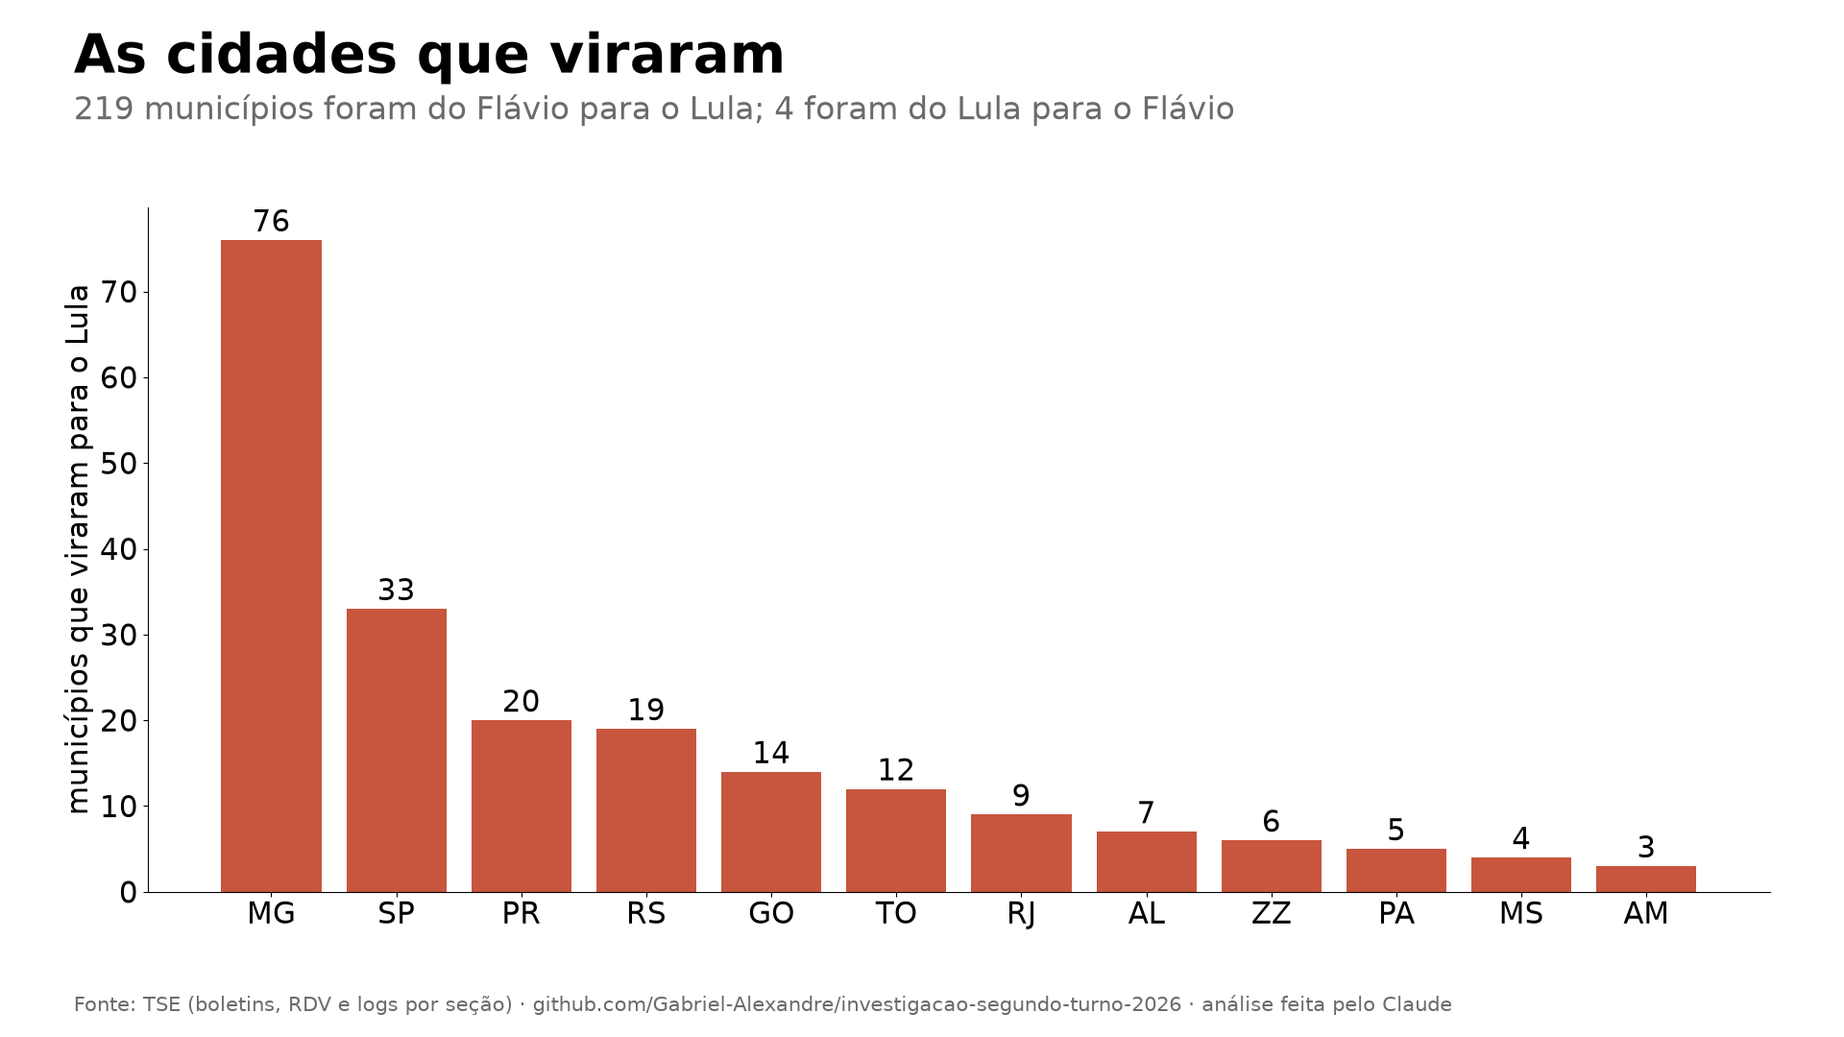
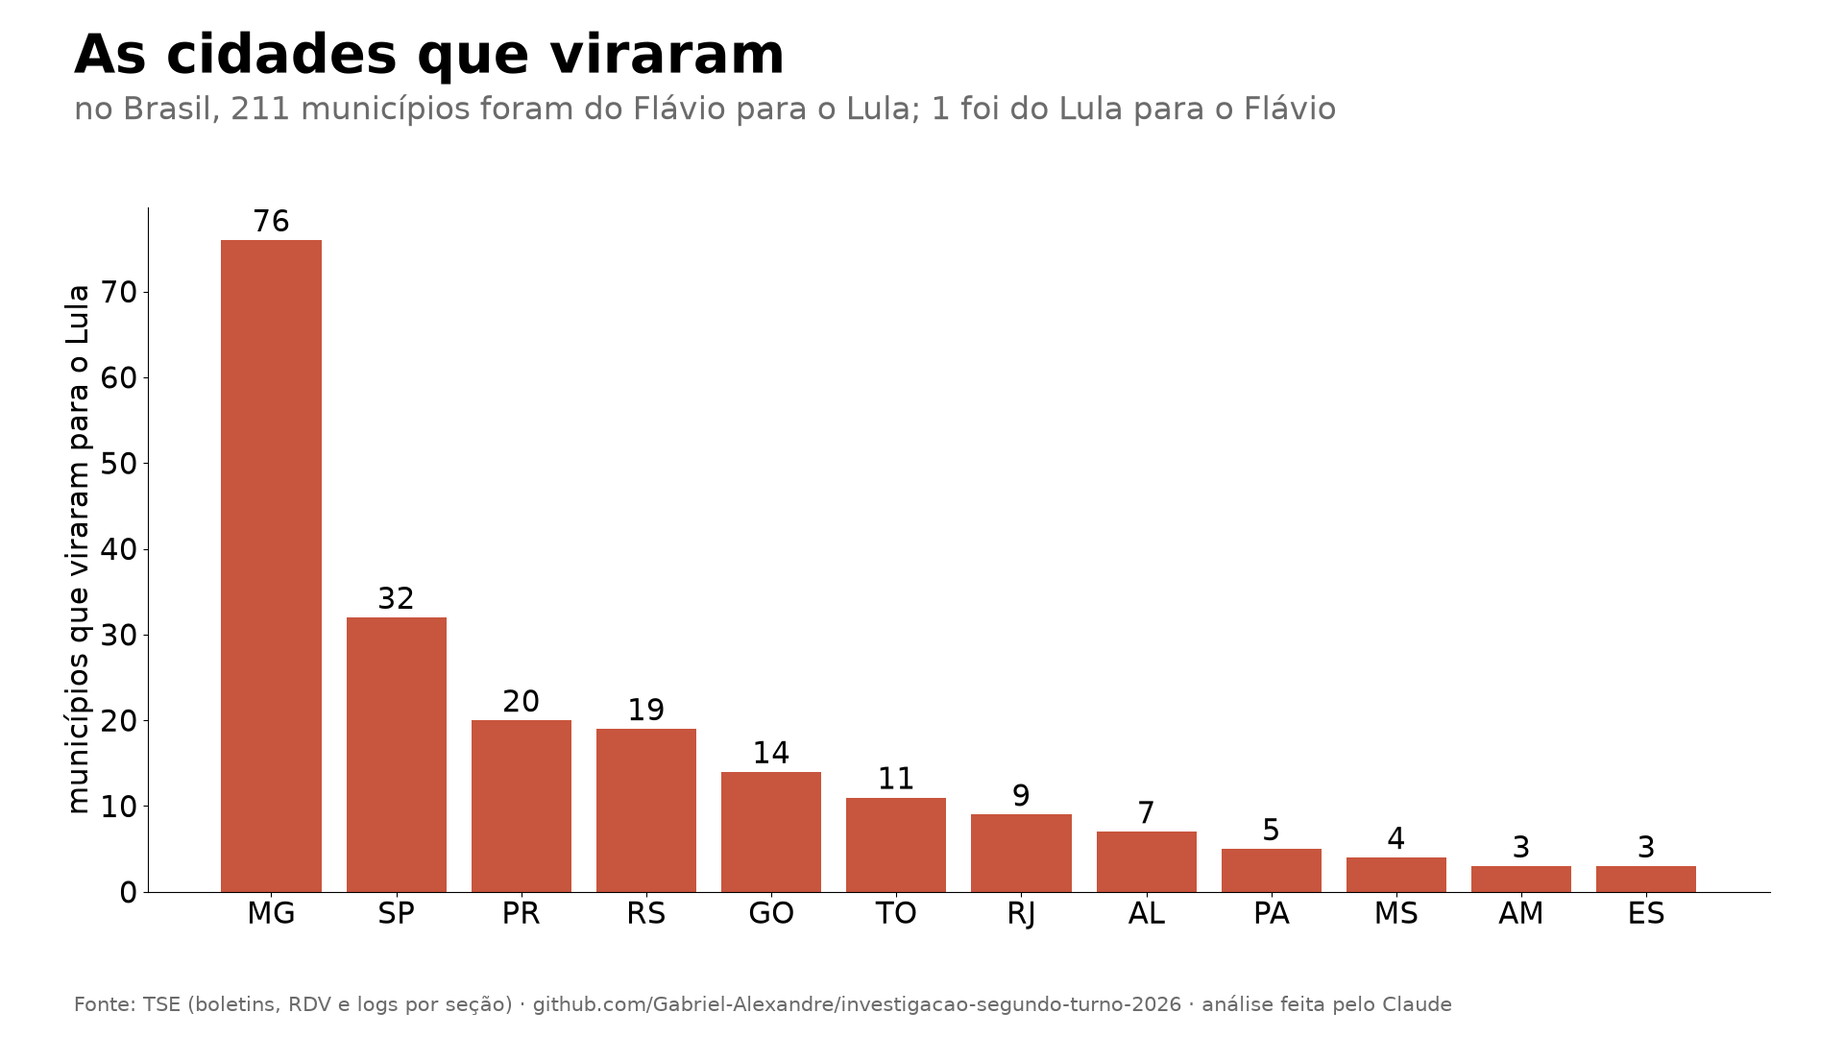
Rodada 5: as cidades que viraram contra 2002 a 2022 (212 em 2026, menos que todo ano menos 2018; fora do padrão, o PT ganhar mais votos que o adversário em 94% dos municípios e 61% do ganho no Sul, batendo com a rodada 7 do projeto do vídeo 19); correção do D4: 211 e 1 no Brasil (os 219 e 4 somavam 

diff --git a/ferramentas/rodada-5-municipios.py b/ferramentas/rodada-5-municipios.py
@@ -1,0 +1,89 @@
+"""Rodada 5: as cidades que viraram são normais? (pedido do autor para o roteiro: "comparar com outras eleições, se é normal
+ganhar ou aumentar em tantos municípios, e se é normal o Lula ganhar mais que o Flávio no Sul")
+
+  M1  municípios que viraram entre os turnos (o líder entre os 2 finalistas no 1º turno perde o município no 2º), nos 2 sentidos
+  M2  em quantos municípios o PT ganhou mais votos que o adversário entre os turnos
+  M3  a parte do PT no que os 2 ganharam, por região
+
+Mesmas fontes da rodada 4 (votação por candidato e município do TSE, 2002 a 2022; boletins por seção de 2026 deste projeto).
+O exterior (ZZ) fica fora. M2 e M3 refazem por outro caminho a rodada 7 do projeto do vídeo 19 (quem_ganhou_mais_por_ano.csv).
+
+Também corrige o D4 da rodada 3 sem refazer a rodada inteira: o empate exato no 1º turno (2 municípios, Trabiju e Crixás do
+Tocantins) era contado como do Flávio, e as cidades do exterior entravam na conta das que viraram. Refaz o vencedor em
+resultados/d4_municipios.csv e o bloco D4 de resultados/rodada3.json com a mesma função da rodada 3 (d4_resumo).
+
+Saída: resultados/rodada5_municipios_por_ano.csv, resultados/d4_municipios.csv e resultados/rodada3.json (bloco D4)
+"""
+from __future__ import annotations
+
+import csv, importlib.util
+from pathlib import Path
+
+R = Path(__file__).resolve().parents[1]
+spec = importlib.util.spec_from_file_location("r4", R / "ferramentas/rodada-4-normalidade.py")
+r4 = importlib.util.module_from_spec(spec); spec.loader.exec_module(r4)
+import pandas as pd
+
+REGIAO = {**{u: "Norte" for u in "AC AM AP PA RO RR TO".split()}, **{u: "Nordeste" for u in "AL BA CE MA PB PE PI RN SE".split()},
+          **{u: "Centro-Oeste" for u in "DF GO MS MT".split()}, **{u: "Sudeste" for u in "ES MG RJ SP".split()},
+          **{u: "Sul" for u in "PR RS SC".split()}}
+ADV = {2002: 45, 2006: 45, 2010: 45, 2014: 45, 2018: 17, 2022: 22}
+
+
+def tabela(a):
+    if a < 2026:
+        v = r4.votos_municipio(a)
+        v = v[v.SG_UF != "ZZ"]
+        p = v[v.NR_CANDIDATO.astype(int).isin([13, ADV[a]])].copy()
+        p["quem"] = (p.NR_CANDIDATO.astype(int) == 13).map({True: "pt", False: "ad"})
+        q = p.pivot_table(index=["SG_UF", "CD_MUNICIPIO"], columns=["NR_TURNO", "quem"], values="v", aggfunc="sum").dropna()
+        d = pd.DataFrame({"uf": q.index.get_level_values(0), "pt1": q[("1", "pt")].values, "ad1": q[("1", "ad")].values,
+                          "pt2": q[("2", "pt")].values, "ad2": q[("2", "ad")].values})
+    else:
+        q = r4.votos_2026()
+        q = q[q.uf != "zz"]
+        d = pd.DataFrame({"uf": q.uf.str.upper().values, "pt1": q.lula.values, "ad1": q.flavio.values,
+                          "pt2": q.bu_lula.values, "ad2": q.bu_flavio.values})
+    return d
+
+
+def corrigir_d4():
+    import json
+    import numpy as np
+    sp = importlib.util.spec_from_file_location("r3", R / "ferramentas/rodada-3.py")
+    r3 = importlib.util.module_from_spec(sp); sp.loader.exec_module(r3)
+    mm = pd.read_csv(R / "resultados/d4_municipios.csv", dtype={"municipio": str})
+    mm["venc1"] = np.select([mm.lula1 > mm.flavio1, mm.lula1 < mm.flavio1], ["lula", "flavio"], "empate")
+    mm["venc2"] = np.select([mm.lula2 > mm.flavio2, mm.lula2 < mm.flavio2], ["lula", "flavio"], "empate")
+    mm.to_csv(R / "resultados/d4_municipios.csv", index=False)
+    j = json.loads((R / "resultados/rodada3.json").read_text(encoding="utf-8"))
+    j["D4_cidades_que_viraram"] = r3.d4_resumo(mm)
+    (R / "resultados/rodada3.json").write_text(json.dumps(j, indent=1, ensure_ascii=False, default=str), encoding="utf-8")
+    print(json.dumps({k: v for k, v in j["D4_cidades_que_viraram"].items() if k != "maiores_em_eleitores"}, ensure_ascii=False))
+
+
+def main():
+    corrigir_d4()
+    linhas = []
+    for a in [2002, 2006, 2010, 2014, 2018, 2022, 2026]:
+        d = tabela(a)
+        n = len(d)
+        pt_virou = int(((d.pt1 < d.ad1) & (d.pt2 > d.ad2)).sum())
+        ad_virou = int(((d.pt1 > d.ad1) & (d.pt2 < d.ad2)).sum())
+        gpt, gad = d.pt2 - d.pt1, d.ad2 - d.ad1
+        mais = int((gpt > gad).sum())
+        lin = {"ano": a, "municipios": n, "viraram_para_o_pt": pt_virou, "viraram_para_o_adversario": ad_virou,
+               "viraram_total": pt_virou + ad_virou, "viraram_pct": round((pt_virou + ad_virou) / n * 100, 2),
+               "pt_ganhou_mais_votos_em": mais, "pt_ganhou_mais_votos_pct": round(mais / n * 100, 1)}
+        d["reg"] = d.uf.map(REGIAO)
+        for reg, g in d.groupby("reg"):
+            gp, ga = (g.pt2 - g.pt1).sum(), (g.ad2 - g.ad1).sum()
+            lin[f"parte_do_pt_{reg}"] = round(gp / (gp + ga) * 100, 1)
+        linhas.append(lin)
+        print(lin, flush=True)
+    with open(R / "resultados/rodada5_municipios_por_ano.csv", "w", newline="", encoding="utf-8") as f:
+        w = csv.DictWriter(f, fieldnames=list(linhas[0])); w.writeheader(); w.writerows(linhas)
+
+
+if __name__ == "__main__":
+    main()

diff --git a/ferramentas/rodada-3.py b/ferramentas/rodada-3.py
@@ -269,8 +269,9 @@ def main():
     mm = d.groupby(["uf", "municipio"]).agg(lula1=("lula1", "sum"), flavio1=("flavio1", "sum"), val1=("val1", "sum"),
                                              lula2=("lula2", "sum"), flavio2=("flavio2", "sum"), val2=("val2", "sum"),
                                              aptos=("aptos2", "sum"), abst1=("abst1", "sum"), abst2=("abst2", "sum"), outros1=("outros1", "sum")).reset_index()
-    mm["venc1"] = np.where(mm.lula1 > mm.flavio1, "lula", "flavio")
-    mm["venc2"] = np.where(mm.lula2 > mm.flavio2, "lula", "flavio")
+    # empate exato fica como empate (rodada 5: 2 municípios empataram no 1º turno e eram contados como do Flávio)
+    mm["venc1"] = np.select([mm.lula1 > mm.flavio1, mm.lula1 < mm.flavio1], ["lula", "flavio"], "empate")
+    mm["venc2"] = np.select([mm.lula2 > mm.flavio2, mm.lula2 < mm.flavio2], ["lula", "flavio"], "empate")
     mm["lula_pct_1t"] = mm.lula1 / mm.val1 * 100
     mm["lula_pct_2t"] = mm.lula2 / mm.val2 * 100
     mm["frente_lula_1t_pontos"] = (mm.lula1 - mm.flavio1) / (mm.lula1 + mm.flavio1) * 100
@@ -283,18 +284,29 @@ def main():
     except FileNotFoundError:
         pass
     mm.to_csv(R / "resultados/d4_municipios.csv", index=False)
-    f2l = mm[(mm.venc1 == "flavio") & (mm.venc2 == "lula")]
-    l2f = mm[(mm.venc1 == "lula") & (mm.venc2 == "flavio")]
-    out["D4_cidades_que_viraram"] = {"municipios": int(len(mm)), "do_flavio_para_o_lula": int(len(f2l)), "do_lula_para_o_flavio": int(len(l2f)),
-                                     "por_regiao_flavio_para_lula": f2l.regiao.value_counts().to_dict(),
-                                     "por_uf_flavio_para_lula": f2l.uf.value_counts().head(10).to_dict(),
-                                     "aptos_nos_que_viraram_para_o_lula": int(f2l.aptos.sum()),
-                                     "maiores_em_eleitores": f2l.sort_values("aptos", ascending=False).head(15)[[c for c in ["uf", "municipio", "nome", "aptos", "frente_lula_1t_pontos", "frente_lula_2t_pontos"] if c in f2l]].round(2).to_dict("records"),
-                                     "frente_do_lula_aumentou_em_pct_dos_municipios": round(float((mm.virada_pontos > 0).mean() * 100), 2),
-                                     "virada_media_pontos": round(float(mm.virada_pontos.mean()), 2)}
+    out["D4_cidades_que_viraram"] = d4_resumo(mm)
     (R / "resultados/rodada3.json").write_text(json.dumps(out, indent=1, ensure_ascii=False, default=str), encoding="utf-8")
     d[K + ["regiao", "lp1", "lp2", "res", "excL", "excF", "dc", "dabst"]].to_parquet(R / "dados/derivados/r3_secoes.parquet", index=False)
     print(json.dumps(out, indent=1, ensure_ascii=False, default=str))
+
+
+def d4_resumo(todos):
+    """As cidades que viraram, só no Brasil (o exterior à parte, e o empate exato no 1º turno à parte)."""
+    mm = todos[todos.uf != "zz"]
+    ex = todos[todos.uf == "zz"]
+    f2l = mm[(mm.venc1 == "flavio") & (mm.venc2 == "lula")]
+    l2f = mm[(mm.venc1 == "lula") & (mm.venc2 == "flavio")]
+    return {"municipios": int(len(mm)), "do_flavio_para_o_lula": int(len(f2l)), "do_lula_para_o_flavio": int(len(l2f)),
+            "empatados_no_1t_e_do_lula_no_2t": int(((mm.venc1 == "empate") & (mm.venc2 == "lula")).sum()),
+            "empatados_no_1t_e_do_flavio_no_2t": int(((mm.venc1 == "empate") & (mm.venc2 == "flavio")).sum()),
+            "exterior_cidades": int(len(ex)), "exterior_do_flavio_para_o_lula": int(((ex.venc1 == "flavio") & (ex.venc2 == "lula")).sum()),
+            "exterior_do_lula_para_o_flavio": int(((ex.venc1 == "lula") & (ex.venc2 == "flavio")).sum()),
+            "por_regiao_flavio_para_lula": f2l.regiao.value_counts().to_dict(),
+            "por_uf_flavio_para_lula": f2l.uf.value_counts().head(10).to_dict(),
+            "aptos_nos_que_viraram_para_o_lula": int(f2l.aptos.sum()),
+            "maiores_em_eleitores": f2l.sort_values("aptos", ascending=False).head(15)[[c for c in ["uf", "municipio", "nome", "aptos", "frente_lula_1t_pontos", "frente_lula_2t_pontos"] if c in f2l]].round(2).to_dict("records"),
+            "frente_do_lula_aumentou_em_pct_dos_municipios": round(float((mm.virada_pontos > 0).mean() * 100), 2),
+            "virada_media_pontos": round(float(mm.virada_pontos.mean()), 2)}
 
 
 if __name__ == "__main__":

diff --git a/ferramentas/gerar-relatorio.py b/ferramentas/gerar-relatorio.py
@@ -2,6 +2,7 @@
 from __future__ import annotations
 
 import json
+import pandas as pd
 from pathlib import Path
 
 R = Path(__file__).resolve().parents[1]
@@ -40,6 +41,8 @@ def main():
     a1, a2, a3, a8, a9, a10, a11 = (r3[k] for k in ("A1_votos_sem_origem", "A2_votos_que_somem", "A3_enchimento", "A8_pausa_e_cauda", "A9_urna_trocada", "A10_unanimidades", "A11_residuos_por_municipio"))
     a4, a5, a6, a7 = (r2[k] for k in ("A4_rdv_contra_boletim", "A5_log_contra_boletim", "A6_votos_depois_das_17h", "A7_rajadas_e_liberacao_sem_digital"))
     d4 = r3["D4_cidades_que_viraram"]
+    _v = pd.read_csv(R / 'resultados/rodada5_municipios_por_ano.csv')
+    viradas_historico = '; '.join(f"{int(r.ano)}: {int(r.viraram_total)} viraram ({int(r.viraram_para_o_pt)} para o PT, {int(r.viraram_para_o_adversario)} para o adversário), o PT ganhou mais votos que o adversário em {br(r.pt_ganhou_mais_votos_pct, 1)}% e ficou com {br(r['parte_do_pt_Sul'], 1)}% do que os 2 ganharam no Sul" for _, r in _v.iterrows())
     x1, x3, x4 = ra["acusacao"]["X1_reserva_so_com_outros_candidatos"], ra["acusacao"]["X3_unanimidades_como_se_fossem_falsas"], ra["acusacao"]["X4_o_1pct_de_secoes_mais_acima_do_previsto"]
 
     def sinal(x):
@@ -88,7 +91,7 @@ Estimativa seção a seção, por UF, com intervalo de 90% (`resultados/d2_trans
 
 Validação em 2022 (o mesmo modelo, comparado com o Datafolha de 5 a 7/10/2022): eleitores do Ciro, modelo {pct(d2['validacao_2022']['ciro_modelo']['para_lula_pct'])} Lula e {pct(d2['validacao_2022']['ciro_modelo']['para_o_outro_pct'])} Bolsonaro, Datafolha 31% e 42%; eleitores da Tebet, modelo {pct(d2['validacao_2022']['tebet_modelo']['para_lula_pct'])} e {pct(d2['validacao_2022']['tebet_modelo']['para_o_outro_pct'])}, Datafolha 31% e 29%. O modelo acertou o lado dos eleitores do Ciro e errou o da Tebet: os números de origem acima são a melhor estimativa disponível, não uma medida exata.
 
-**As cidades que viraram:** {br(d4['do_flavio_para_o_lula'])} municípios foram do Flávio no 1º turno para o Lula no 2º; {br(d4['do_lula_para_o_flavio'])} fizeram o contrário. A frente do Lula aumentou em {pct(d4['frente_do_lula_aumentou_em_pct_dos_municipios'])} dos {br(d4['municipios'])} municípios (`resultados/d4_municipios.csv`).
+**As cidades que viraram:** no Brasil, {br(d4['do_flavio_para_o_lula'])} municípios foram do Flávio no 1º turno para o Lula no 2º e {br(d4['do_lula_para_o_flavio'])} fez o contrário; outros {br(d4['empatados_no_1t_e_do_lula_no_2t'])} empataram no 1º turno e foram do Lula no 2º. No exterior, {br(d4['exterior_do_flavio_para_o_lula'])} cidades foram do Flávio para o Lula e {br(d4['exterior_do_lula_para_o_flavio'])} do Lula para o Flávio. A frente do Lula aumentou em {pct(d4['frente_do_lula_aumentou_em_pct_dos_municipios'])} dos {br(d4['municipios'])} municípios (`resultados/d4_municipios.csv`). Contra 2002 a 2022 (rodada 5, `resultados/rodada5_municipios_por_ano.csv`): {viradas_historico}.
 
 **A noite:** refeita pela hora de recebimento de cada boletim, acompanha as versões oficiais gravadas ao vivo com diferença média de {br(d5['diferenca_media_absoluta_pontos'], 2)} ponto. As trocas de liderança seguem a ordem de chegada das regiões (`resultados/d5_reconstruida.json`).
 

diff --git a/ferramentas/graficos.py b/ferramentas/graficos.py
@@ -169,10 +169,11 @@ def g07_polymarket():
 
 def g08_cidades():
     m = pd.read_csv(R / "resultados/d4_municipios.csv", dtype={"municipio": str})
+    m = m[m.uf != "zz"]
     f2l = m[(m.venc1 == "flavio") & (m.venc2 == "lula")]
     l2f = m[(m.venc1 == "lula") & (m.venc2 == "flavio")]
     cont = f2l.uf.str.upper().value_counts().head(12)
-    f = fig("As cidades que viraram", f"{len(f2l)} municípios foram do Flávio para o Lula; {len(l2f)} foram do Lula para o Flávio")
+    f = fig("As cidades que viraram", f"no Brasil, {len(f2l)} municípios foram do Flávio para o Lula; {len(l2f)} foi do Lula para o Flávio")
     ax = f.add_axes([0.08, 0.14, 0.88, 0.66])
     ax.bar(cont.index, cont.values, color=L)
     for i, v in enumerate(cont.values):
@@ -229,8 +230,22 @@ def g11_abstencao():
     salvar(f, "g11_abstencao_entre_turnos.png")
 
 
+def g12_viradas_por_ano():
+    d = pd.read_csv(R / "resultados/rodada5_municipios_por_ano.csv")
+    f = fig("Cidades que viraram entre os turnos", "municípios em que o líder do 1º turno entre os 2 finalistas perdeu o 2º turno")
+    ax = f.add_axes([0.08, 0.14, 0.88, 0.66])
+    x = d.ano.astype(str)
+    ax.bar(x, d.viraram_para_o_pt, color=L, label="viraram para o PT")
+    ax.bar(x, d.viraram_para_o_adversario, bottom=d.viraram_para_o_pt, color=B, label="viraram para o adversário")
+    for i, v in enumerate(d.viraram_total):
+        ax.text(i, v + 15, str(v), ha="center", fontsize=24, weight="bold")
+    ax.set_ylabel("municípios")
+    ax.legend(frameon=False, fontsize=20)
+    salvar(f, "g12_cidades_que_viraram_por_ano.png")
+
+
 def main():
-    for g in (g01_conta, g02_origem, g03_curva, g04_testes, g05_pesquisas, g06_probabilidade, g07_polymarket, g08_cidades, g09_digital, g10_votos_livres, g11_abstencao):
+    for g in (g01_conta, g02_origem, g03_curva, g04_testes, g05_pesquisas, g06_probabilidade, g07_polymarket, g08_cidades, g09_digital, g10_votos_livres, g11_abstencao, g12_viradas_por_ano):
         try:
             g()
             print("ok", g.__name__)

diff --git a/docs/RODADAS.md b/docs/RODADAS.md
@@ -68,7 +68,7 @@ Tudo o que foi pedido, em [`RELATORIO.md`](../RELATORIO.md) (gerado por script) 
 - **1º turno por seção:** 499.206 seções; SP, TO e exterior pelo BU na Web do TSE depois de o servidor de resultados responder 429 (emenda 1), conferido contra 73.000 seções de SP já baixadas: iguais em todas.
 - **Régua de 2022:** os dois turnos de 2022 por seção, iguais ao total do TSE nas duas bases.
 - **Acusação A1 a A11 completos**, com o veredito de cada um na régua de cinco níveis e o teto do pior caso.
-- **Defesa D1 a D6 completos:** a conta, a transferência de votos com validação em 2022, a abstenção, as 219 cidades que viraram (e as 4 do outro lado), a noite refeita pelos boletins e as pesquisas da última semana.
+- **Defesa D1 a D6 completos:** a conta, a transferência de votos com validação em 2022, a abstenção, as cidades que viraram (219 e 4 na 1ª conta; 211 e 1 no Brasil depois da correção da rodada 5), a noite refeita pelos boletins e as pesquisas da última semana.
 - **Probabilidade P1 a P7 completa**, com 180 segundos turnos de 41 países (P6) e as 19 pesquisas da última semana (P3).
 - **Outros países:** [`OUTROS_PAISES.md`](OUTROS_PAISES.md).
 - **Validação independente:** todas as checagens passaram. **Revisão adversarial:** [`REVISAO_ADVERSARIAL.md`](REVISAO_ADVERSARIAL.md). **Leitura da IA:** [`LEITURA_DA_IA.md`](LEITURA_DA_IA.md). **Gráficos:** `resultados/figuras/video/` (9).
@@ -90,3 +90,21 @@ Pedido do autor depois de ler o projeto do vídeo 19: *"é normal [...] que a ma
 Leitura: o PT ganhar votos em quase todos os municípios e a virada andar para o mesmo lado em quase todos já aconteceu (2002, 2006, 2018, 2022). O eleitor dos eliminados contrariar o apoio do candidato também (2022, ao contrário: 88% apoiaram o PT e o PT levou 30%). **Sem precedente:** a abstenção cair 1,86 ponto entre os turnos e o comparecimento subir em 80% dos municípios; e o PT levar a maior parte dos votos livres quando a maioria dos eliminados apoiou o adversário.
 
 **Sensibilidade da transferência** (`resultados/d2_sensibilidade.json`): o mesmo modelo dá 3,9 milhões dos eleitores dos outros candidatos para o Lula por seção e 4,8 milhões por município; o projeto do vídeo 19, com outro método por município, dá 6,0 milhões. Os três concordam que o Lula levou mais desses eleitores do que o Flávio e que a troca direta do Flávio para o Lula foi quase nula.
+
+## Rodada 5 · 26/10/2026 (as cidades que viraram, comparadas com 2002 a 2022)
+
+Pedido do autor para o roteiro: comparar com outras eleições *"se é normal ganhar ou aumentar em tantos municípios"* e *"se é normal o Lula ganhar mais que o Flávio no Sul"* (`ferramentas/rodada-5-municipios.py`, `resultados/rodada5_municipios_por_ano.csv`, gráfico `g12`). Exterior fora; município é o do TSE de cada ano.
+
+| Ano | Municípios que viraram (para o PT / para o adversário) | PT ganhou mais votos que o adversário em | Parte do PT no que os 2 ganharam, no Sul |
+|---|---|---|---|
+| 2002 | 793 (110 / 683) | 31,2% | 41,5% |
+| 2006 | 913 (912 / 1) | 98,8% | 121,4% (o adversário perdeu votos) |
+| 2010 | 325 (30 / 295) | 30,4% | 25,1% |
+| 2014 | 348 (71 / 277) | 26,5% | 30,2% |
+| 2018 | 146 (121 / 25) | 69,9% | 53,7% |
+| 2022 | 251 (0 / 251) | 12,8% | 18,0% |
+| **2026** | **212 (211 / 1)** | **93,8%** | **60,6%** |
+
+**Leitura:** o número de cidades que viraram em 2026 é dos menores da série (só 2018 teve menos), e virar quase tudo para um lado só também aconteceu em 2006 e em 2022. O que sai do padrão é o PT ganhar mais votos que o adversário em 94% dos municípios e ficar com 61% do ganho no Sul: fora 2006, o maior tinha sido 70% dos municípios e 54% no Sul, em 2018. É o mesmo eleitor livre da rodada 4, visto no mapa. As duas últimas colunas refazem por outro caminho a rodada 7 do projeto do vídeo 19 (`quem_ganhou_mais_por_ano.csv`) e batem casa por casa (por exemplo, 2002: 31,2% e 41,5% aqui, 31,19% e 41,55% lá).
+
+**Correção do D4 (rodada 3):** as *"219 cidades que viraram (e as 4 do outro lado)"* somavam as cidades do exterior (6 e 3) e contavam como do Flávio 2 municípios que empataram no 1º turno (Trabiju, SP, 574 a 574; Crixás do Tocantins, TO, 679 a 679). No Brasil: **211 do Flávio para o Lula, 1 do Lula para o Flávio**, e 2 empatados que foram do Lula. O vencedor com empate e o exterior à parte entraram em `ferramentas/rodada-3.py` (`d4_resumo`), e `resultados/d4_municipios.csv`, `rodada3.json`, o relatório e o `g08` foram refeitos sem refazer a rodada inteira (`corrigir_d4` na rodada 5).

diff --git a/RELATORIO.md b/RELATORIO.md
@@ -31,7 +31,7 @@ Estimativa seção a seção, por UF, com intervalo de 90% (`resultados/d2_trans
 
 Validação em 2022 (o mesmo modelo, comparado com o Datafolha de 5 a 7/10/2022): eleitores do Ciro, modelo 40,3% Lula e 42,4% Bolsonaro, Datafolha 31% e 42%; eleitores da Tebet, modelo 37,8% e 44,2%, Datafolha 31% e 29%. O modelo acertou o lado dos eleitores do Ciro e errou o da Tebet: os números de origem acima são a melhor estimativa disponível, não uma medida exata.
 
-**As cidades que viraram:** 219 municípios foram do Flávio no 1º turno para o Lula no 2º; 4 fizeram o contrário. A frente do Lula aumentou em 96,5% dos 5.688 municípios (`resultados/d4_municipios.csv`).
+**As cidades que viraram:** no Brasil, 211 municípios foram do Flávio no 1º turno para o Lula no 2º e 1 fez o contrário; outros 2 empataram no 1º turno e foram do Lula no 2º. No exterior, 6 cidades foram do Flávio para o Lula e 3 do Lula para o Flávio. A frente do Lula aumentou em 97,1% dos 5.571 municípios (`resultados/d4_municipios.csv`). Contra 2002 a 2022 (rodada 5, `resultados/rodada5_municipios_por_ano.csv`): 2002: 793 viraram (110 para o PT, 683 para o adversário), o PT ganhou mais votos que o adversário em 31,2% e ficou com 41,5% do que os 2 ganharam no Sul; 2006: 913 viraram (912 para o PT, 1 para o adversário), o PT ganhou mais votos que o adversário em 98,8% e ficou com 121,4% do que os 2 ganharam no Sul; 2010: 325 viraram (30 para o PT, 295 para o adversário), o PT ganhou mais votos que o adversário em 30,4% e ficou com 25,1% do que os 2 ganharam no Sul; 2014: 348 viraram (71 para o PT, 277 para o adversário), o PT ganhou mais votos que o adversário em 26,5% e ficou com 30,2% do que os 2 ganharam no Sul; 2018: 146 viraram (121 para o PT, 25 para o adversário), o PT ganhou mais votos que o adversário em 69,9% e ficou com 53,7% do que os 2 ganharam no Sul; 2022: 251 viraram (0 para o PT, 251 para o adversário), o PT ganhou mais votos que o adversário em 12,8% e ficou com 18,0% do que os 2 ganharam no Sul; 2026: 212 viraram (211 para o PT, 1 para o adversário), o PT ganhou mais votos que o adversário em 93,8% e ficou com 60,6% do que os 2 ganharam no Sul.
 
 **A noite:** refeita pela hora de recebimento de cada boletim, acompanha as versões oficiais gravadas ao vivo com diferença média de 0,07 ponto. As trocas de liderança seguem a ordem de chegada das regiões (`resultados/d5_reconstruida.json`).
 
